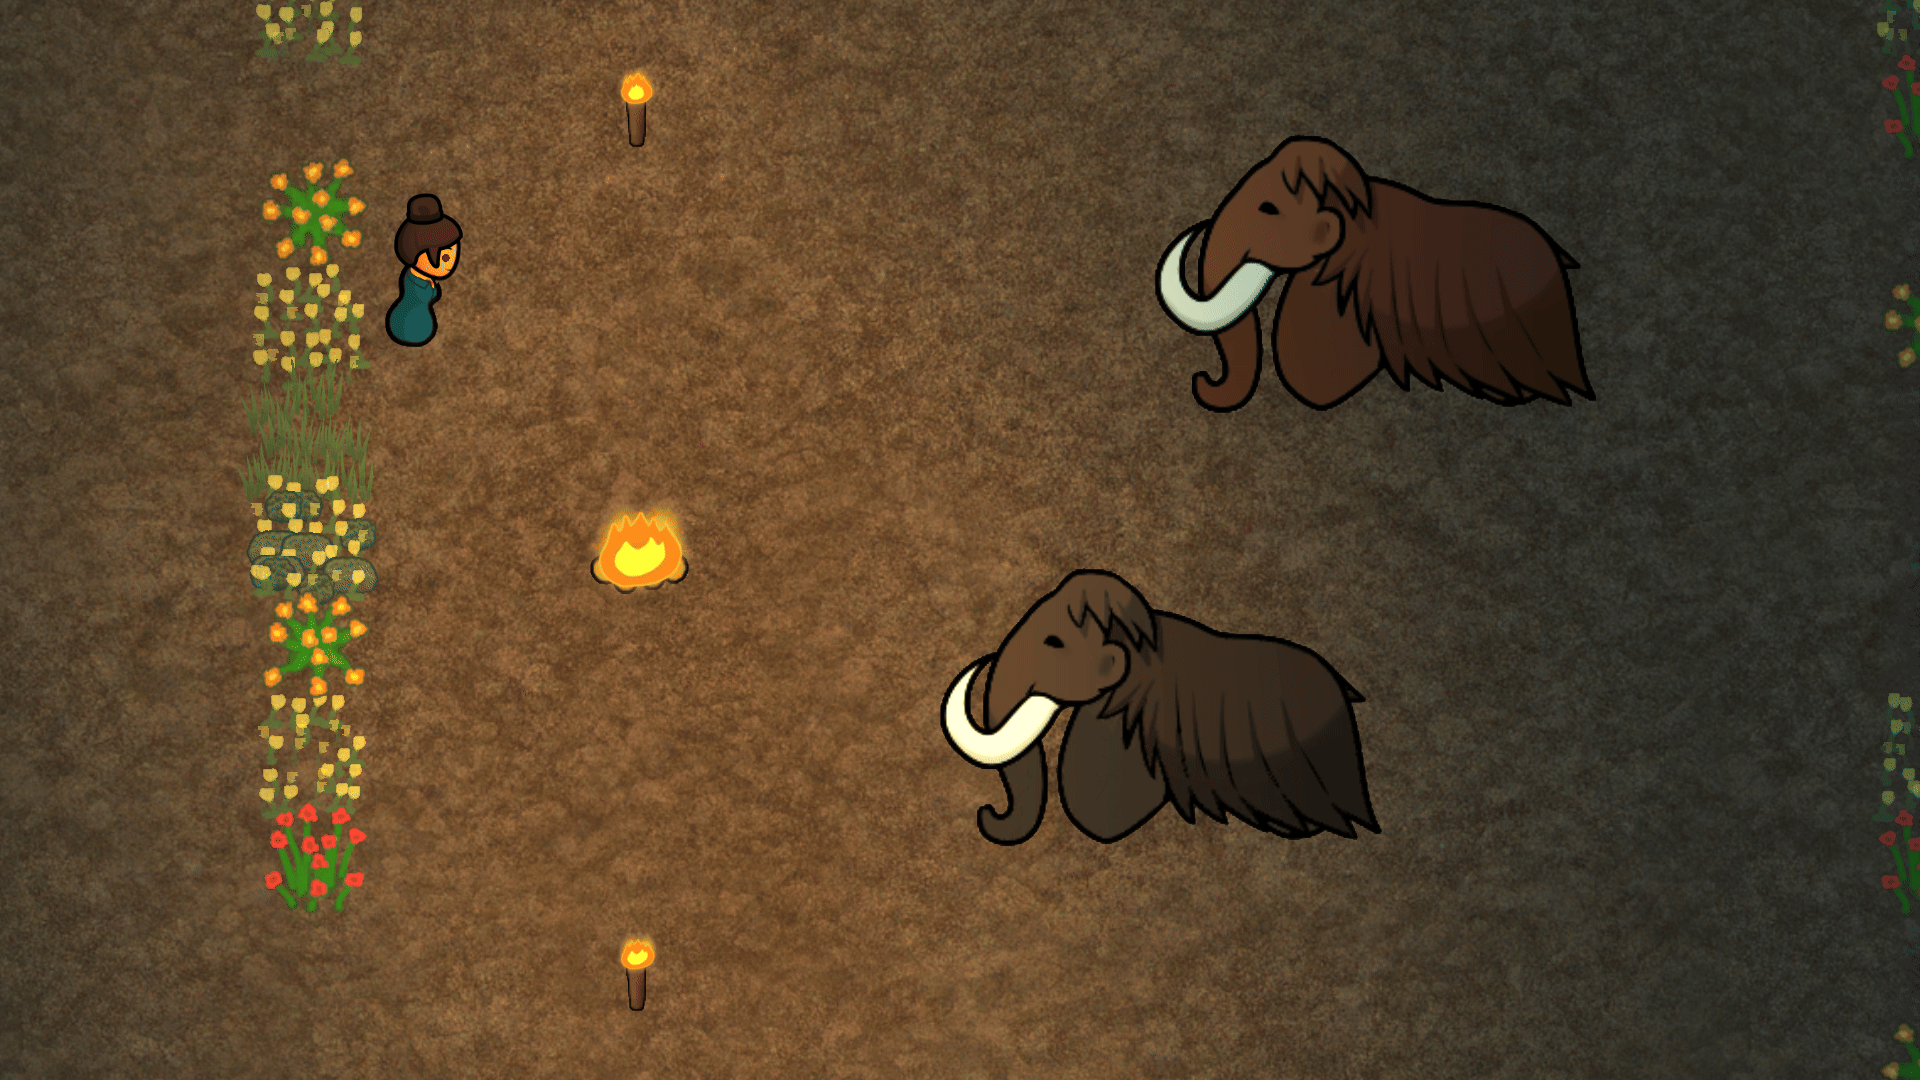
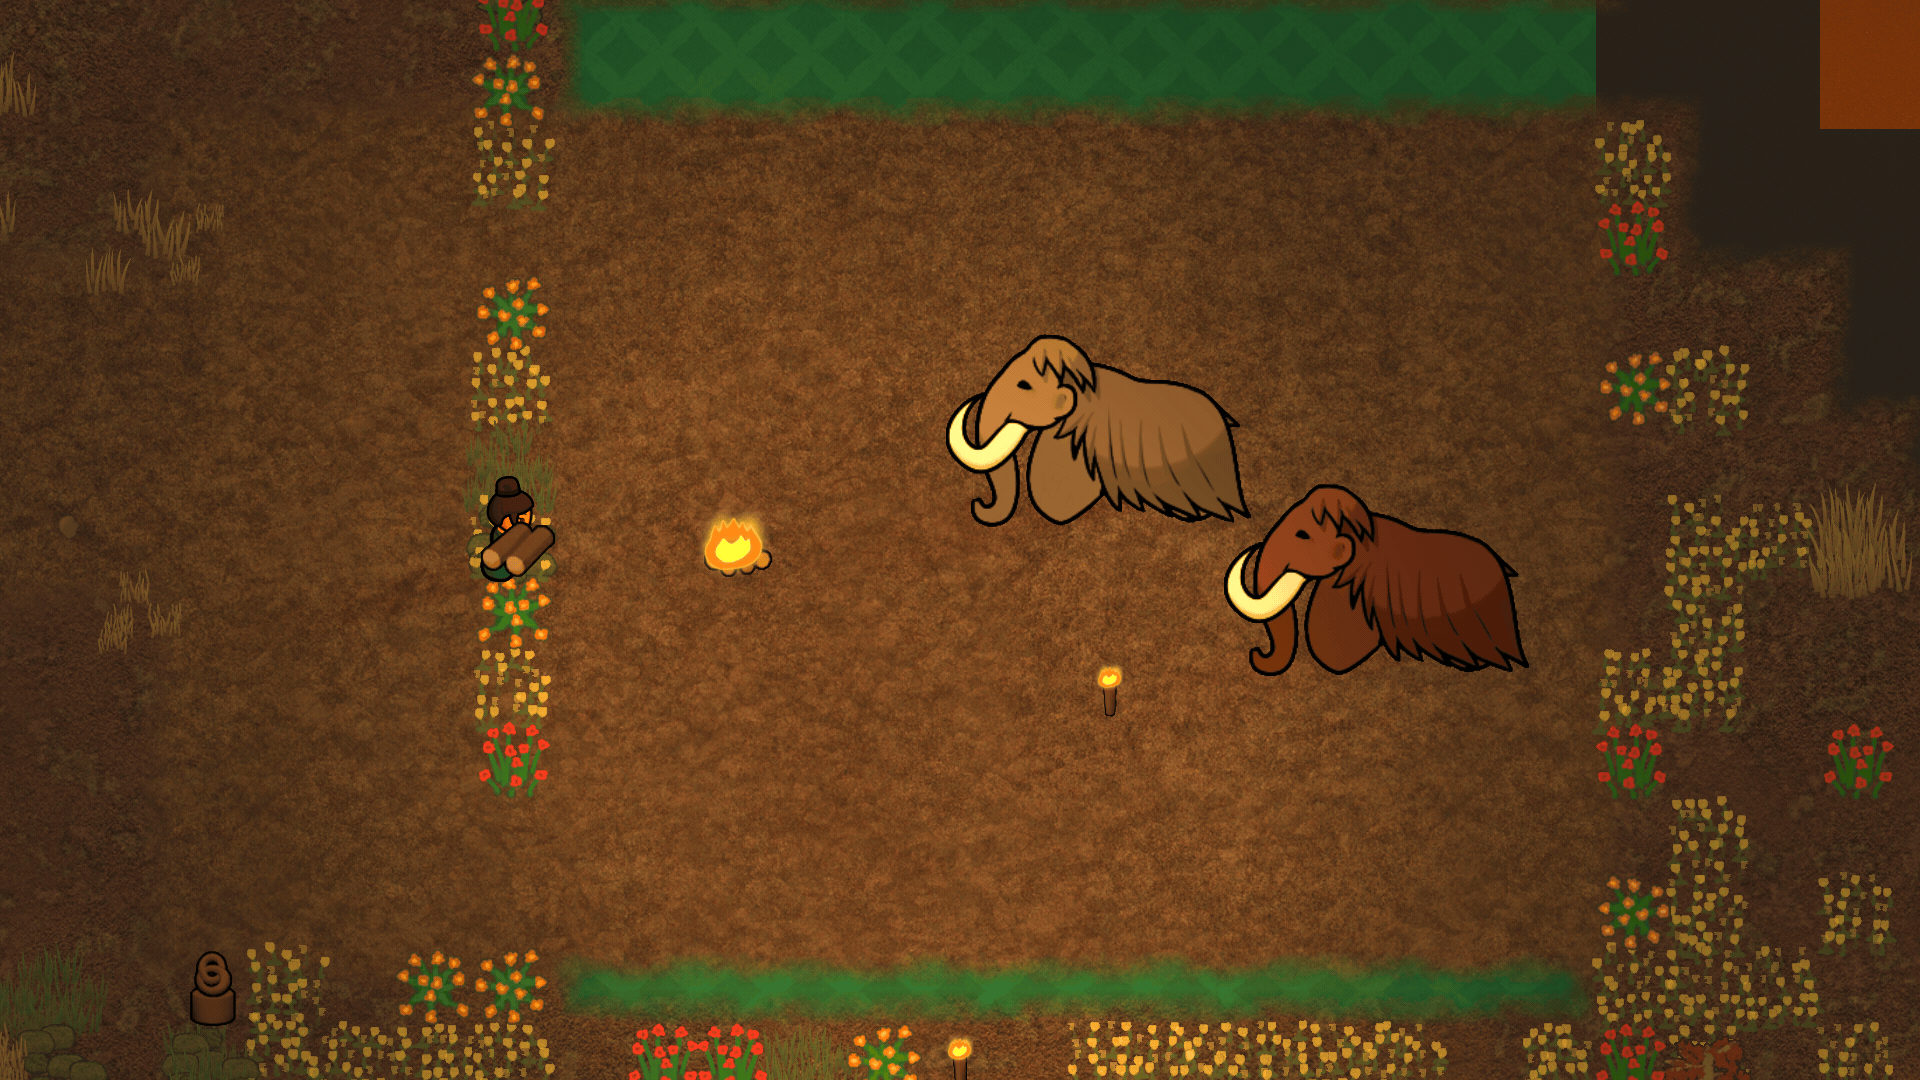
shootGallery: a631 green, scenes 1 and 4 candidates replaced, scenes 2 and 3 to redo; evidence sorted

diff --git a/STATUS.md b/STATUS.md
@@ -32,20 +32,18 @@ xml_tests: passed, 2026-10-15, e57955d (Check-Xml.ps1)
 manual_tests: nine scenarios in TEST_SCENARIOS.md, not executed by hand; Pickle covered A, B, D and H in game (initial tickets 2026-10-12, replays green), see docs/runs/
 workshop: 3806766441 (prepublished 2026-09-28: item created, private; CHANGELOG 0.1.0 added)
 remaining:
-  - "2026-10-27 shootGallery: ticket 20261027-201119-069-a631 (4 gallery scenes, c0c19a3, wsl-deps.gallery.map, Inbox gallery-keeper-1) queued, probe of animal Ingest, lies at, sits on Stool, place water-garden; at RUN_DONE read summary.json then junit.xml, open every capture, give verdicts next to estimates (4.5, 4, 4, 4), send any failure text to NPT (local NPT session), apply the scene 2 rework recorded in the Shotlist section of STATUS.md to 08-gallery.feature and replay scene 2 alone, then accept or refuse, drop candidate from names, reindex, Art/Gallery-clean + Add-Subtitle.ps1, update Gallery subtitles table in PUBLICATION.md (lines still the old story); old candidates 1 to 4 in Art/Gallery are from the previous plan; keep tree frozen until RUN_DONE; scene 3 e weak (steps back not obtained); only NSB colonists"
-  - "2026-10-18: Audit (via TM) asked gallery prep polish: 08-gallery.feature now has dry tall grass at (201,148) and (201,156), Nelim carries WoodLog, scorpion coat-3 faces South (front view); no tattoo (own face rule), no weapon (calm story), no third-party mod needed; Check-Steps green; queued f70f (d3ba mammoths) predates this edit, relaunch mammoths; plants step never played, read capture"
-  - "2026-10-19: mammoth gallery tickets d3ba, f70f, fe32, fd0f all exit 3 with no capture (startup hang, likely host RAM exhaustion: free RAM 0.5 GB at the fd0f stall; NPT and TM confirm no fix); refiled as 6180 (8122891, filter ::two mammoths, wsl-deps.gallery), which also failed, but not by a hang: launcher exit 1 at staging, "astryl.facialanimationperformancepatch (3790129900) is in none of" the WSL mod paths (log 20261019-154020-080-6180.log), so the game never started; the folder exists in Steam workshop content/294100 now (transient or WSL mount), so replay once, and if it repeats run scripts/download-workshop-wsl.sh 3790129900; its Inbox folder deleted, nothing to keep; mammoths still uncaptured (the four earlier tickets did hang, likely RAM); 08-gallery.feature prep (dry tall grass, WoodLog, scorpion front view) unplayed; shotlist due at shootGallery (AUDIT 9.0)"
+  - "2026-11-02 shootGallery: ticket a631 GREEN 4 of 4 (exit 0, evidence Evidence/gallery-keeper-1, minified). Verdicts (est): 1 mammoths 3.5 (4.5) keep, two close browns, Nelim at left edge, nobody eating; 2 Enhydriodon 3 (4) redo, dark and murky, old scene, rework not applied; 3 scorpions 2.5 (4) refuse, one orange scorpion overlaps a grey and black one so they read as one creature, Nelim far from frame; 4 Chalicotherium 4 (4) accept, three clear coats two lying, stool placed but Nelim stands beside it. Candidates 1 and 4 replaced in Art/Gallery (new plan); 2 and 3 still previous-plan. Next: apply scene 2 rework (Shotlist section) and fix scene 3 spacing in 08-gallery.feature, replay 2 and 3 as one small ticket, ask NPT why sit on Stool not obtained (stands beside), then accept or refuse, drop candidate from names, reindex, Art/Gallery-clean + Add-Subtitle.ps1, update Gallery subtitles table in PUBLICATION.md (lines still the old story); only NSB colonists"
+  - "2026-10-18: Audit (via TM) asked gallery prep polish (dry tall grass, WoodLog, scorpion front view, no tattoo, no weapon): played in a631 2026-11-02, read in the captures"
   - "2026-10-19: evidence sorted (Tests/Pickle/Evidence, 0.6 MB). p17-assetpack-ab-B-1017 (1.7 A/B pack pass) trimmed to one scenario, its per-animal proof deleted: tested_1_7 has no proof, replay the 1.7 pass after a green 1.6 playTests"
   - "2026-10-17: FRENCH_REVIEW.md (39cf697, no French string shipped) read and validated by Virginie; ChatGPT review of the French texts found nothing; gallery replay f70f (mammoths B and C, d3ba exit 3 had no capture) queued"
-  - "2026-10-17: gallery 19db played green (4 of 4, Evidence/gallery-sanctuary-5, exit 0): opened by the session, no sweat, bun kept, coats plainly different; 4 candidates (palette PNG, 1.3 MB each) left in Art/Gallery, parked for shootGallery (not playTests); mammoths replayed with coats B and C, ticket d3ba (a804684) queued, owner asked for it 2026-10-17, judge the capture at RUN_DONE: session verdict accept 4, 3, 2, redo 1 (mammoth coats too close, force two with "is given coat"); Virginie decides then; drop candidate from names, reindex, subtitles via Art/Gallery-clean + scripts/Add-Subtitle.ps1; if sweat ever returns send the path to SB (local_9922b4f6) who relays to NPT"
   - "2026-10-17: coat sheet 09 (9ab1) read, no flipped or missing piece; echo_review_sha and social_preview_sha256 not due until mountPreview and writeDocs; no grep in any form (AGENTS.md)"
   - "2026-10-17: automated at af830bc (owner: no hand play): C by 10-all-coats and 11-all-textures (ticket 869f green 2026-10-17, 227 of 227, Evidence/all-coats-1), F by 12-removed-from-save as -Then/-ThenWithout (ticket 0c2e green 2026-10-17), E covered by every scenario; I (mod list entry, EN/FR look) and G are the game's own behaviour, not applicable (owner, 2026-10-17); About.xml checked offline"
   - "2026-10-10: defect: flaky off-thread spawn in CoatSteps (c9a2: Accessing map pawns off main thread, not at 5630), not this repository's code, reported to colorfulcoats.dodosrenew"
   - "2026-10-10: unverified: redistribution permission for the original assets"
 code_review_sha: 4d14f04c9f3f2d4bbbd92ad992610e1dbe271143
 session:      local_58f83149-f7e3-4f22-872a-edec4ef75a9b
-updated: 2026-10-27, playTests closed (8.a to 8.m), moved to shootGallery
-protocols_read_sha: 43dd90d4b7873c500347fba1be01275a48d5795b
+updated: 2026-11-02, a631 gallery judged (candidates 1 and 4 replaced), scenes 2 and 3 to redo; session CCMf
+protocols_read_sha: d91e85f598167d3582a81de52113c63a1b293e26
 ---
 # Colorful Coats - Megafauna! Renew (unofficial): status
 
